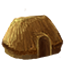
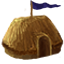
Added new farm art and neutral homestead

Changed region(s): [[0.4375, 0.0, 0.9688, 0.2812]]

diff --git a/js/resources.js b/js/resources.js
@@ -20,6 +20,8 @@ resources = [
      src: "data/img/buildings/user_homestead.png"},
     {name: "comp1_homestead", type: "image",
      src: "data/img/buildings/comp1_homestead.png"},
+    {name: "neutral_homestead", type: "image",
+     src: "data/img/buildings/neutral_homestead.png"},
 
     {name: "building_selection", type: "image",
      src: "data/img/buildings/building_selection.png"},
